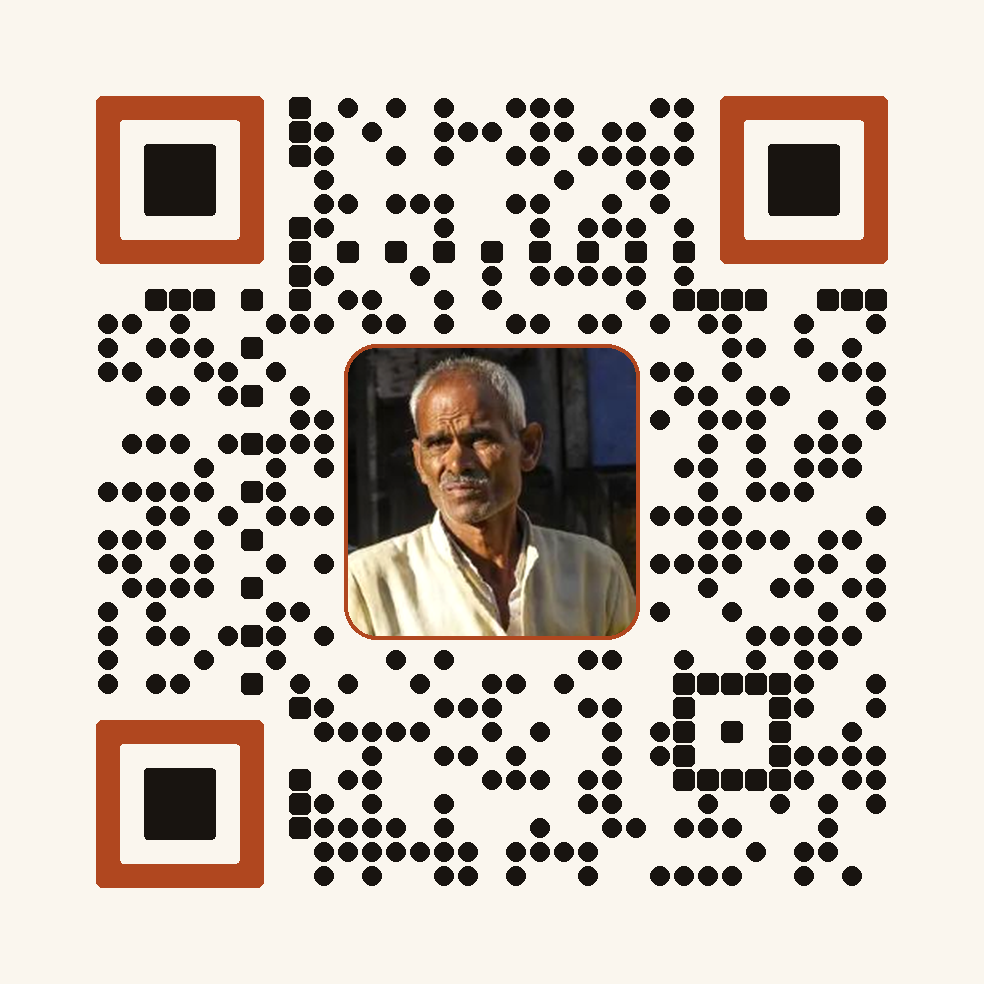
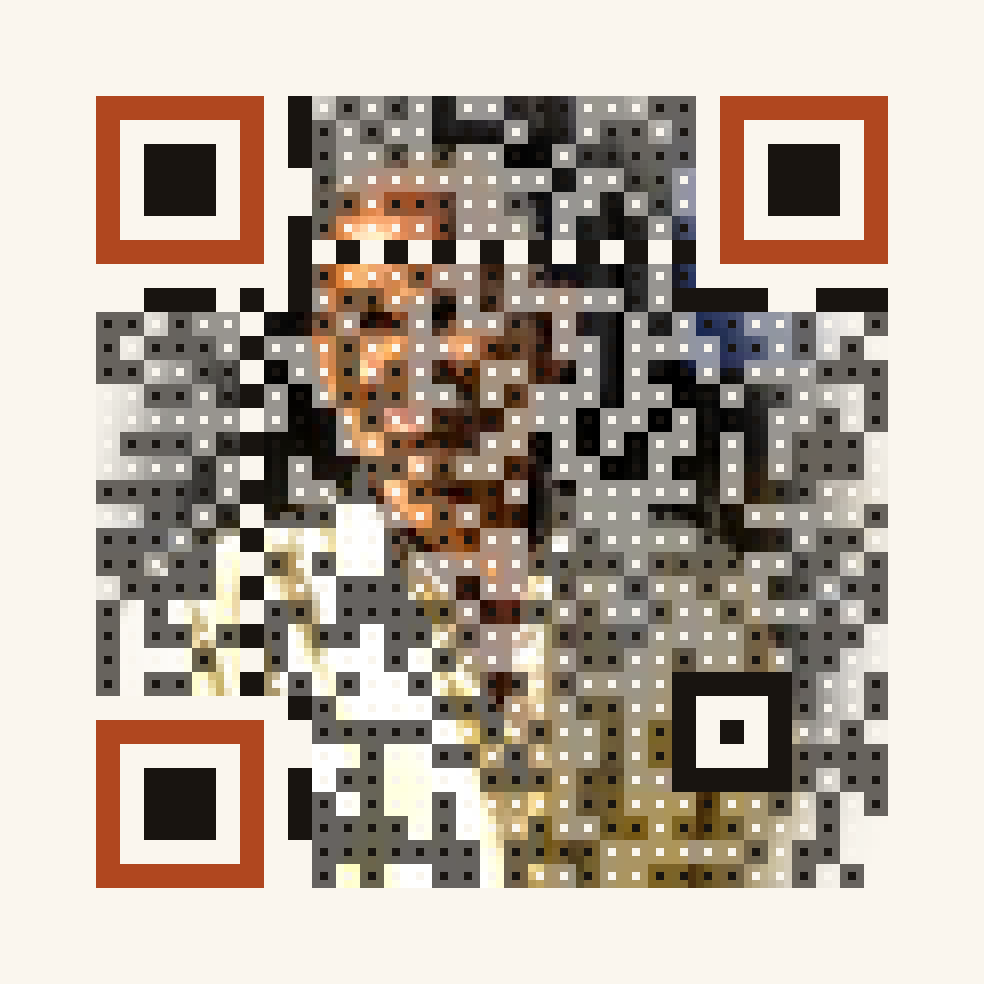
web: QR remade as a halftone picture (the code forms the vendor's face), read by ZXing and OpenCV (D57)

diff --git a/scripts/make_qr.py b/scripts/make_qr.py
@@ -1,17 +1,17 @@
 """Make the picture QR for the website and the printed card (D57).
 
-Two styles. "portrait" (default, used on the site): a clean QR of round dots with the photo as a
-clear portrait in the centre; error correction H lets up to 30% of the code be covered, the
-13x13 portrait covers 16%. "halftone" (tried first, too busy to see the face): the photo fills the code at full detail. Each QR module keeps a solid centre dot
-that carries the data (dark or light). Around the dot the photo is left alone wherever it already
-agrees with the module; only pixels on the wrong side are pushed just past a threshold
-(--dark-max / --light-min), so the picture survives and phone scanners still read it. The finder squares, timing
-lines, alignment square and format/version bits are drawn solid, because scanners rely on them.
+A halftone QR (the method of "Halftone QR codes", Chu et al., SIGGRAPH Asia 2013): the code itself
+draws the picture. Every QR module is split into 3x3 small cells. Only the centre cell carries the
+data (forced dark or light); the 8 cells around it show the photo, and are only nudged when they
+strongly disagree with their module (--dark-max / --light-min). Scanners sample module centres, so
+they read the data; the eye sees the photo. Finder squares, timing, alignment and format bits stay
+solid. Before that, the photo is cropped to head and shoulders and everything outside a soft oval
+is faded to cream: a plain light background is what makes the face readable.
 
-Dev tool only, not part of the API. Needs: pip install segno pillow numpy  (optional check: opencv-python-headless)
+Dev tool only, not part of the API. Needs: pip install segno pillow numpy
+Optional check (reads the result back like a phone): pip install zxing-cpp opencv-python-headless
 
-  python scripts/make_qr.py --image photo.jpg --crop 55,15,235,195 --out web/public/qr-app.png
-  python scripts/make_qr.py ... --check      # read the result back with OpenCV and print the link
+  python scripts/make_qr.py --image photo.png --out web/public/qr-app.png --check
 
 The source photo is a licensed stock image: keep it out of git (docs/assets/*_source.* is ignored).
 """
@@ -19,151 +19,94 @@ import argparse
 
 import numpy as np
 import segno
-from PIL import Image, ImageDraw, ImageEnhance
+from PIL import Image, ImageDraw, ImageEnhance, ImageFilter
 
 URL = "https://karzsamjho.vercel.app/app"
 INK = (24, 20, 16)          # near-black, the site's foreground
 PAPER = (250, 246, 238)     # cream, the site's background
 ACCENT = (176, 71, 31)      # burnt orange, the site's primary
 QUIET = 4                   # quiet zone in modules (the QR standard asks for 4)
+LUMA = np.array([0.299, 0.587, 0.114], np.float32)
 
 
-def make(image_path, crop, out, url=URL, module=30, dark_max=90, light_min=170, contrast=1.2, dot=0.45):
+def prepare(path, crop, oval=(0.08, -0.02, 0.92, 1.2), contrast=1.35, bright=1.05):
+    """Crop, boost, and fade everything outside a soft oval (head and shoulders) to cream."""
+    im = Image.open(path).convert("RGB")
+    if crop:
+        im = im.crop(crop)
+    im = ImageEnhance.Brightness(ImageEnhance.Contrast(im).enhance(contrast)).enhance(bright)
+    w, h = im.size
+    mask = Image.new("L", (w, h), 0)
+    ImageDraw.Draw(mask).ellipse([oval[0] * w, oval[1] * h, oval[2] * w, oval[3] * h], fill=255)
+    mask = mask.filter(ImageFilter.GaussianBlur(w * 0.05))
+    return Image.composite(im, Image.new("RGB", (w, h), PAPER), mask)
+
+
+def make(photo, out, url=URL, cell=8, dark_max=100, light_min=150):
+    """photo: a prepared PIL image. cell: pixels per small cell (a module is 3 cells)."""
     qr = segno.make(url, error="h", boost_error=False)
     n = qr.symbol_size(scale=1, border=0)[0]
-    side = n * module
-    size = (n + 2 * QUIET) * module
-
-    photo = Image.open(image_path).convert("RGB")
-    if crop:
-        photo = photo.crop(crop)
-    photo = ImageEnhance.Contrast(photo).enhance(contrast).resize((side, side), Image.LANCZOS)
-
+    dark = np.array([[bool(v) for v in row] for row in qr.matrix_iter(scale=1, border=0)])
+    kinds = [list(row) for row in qr.matrix_iter(scale=1, border=0, verbose=True)]
     k = segno.consts
     fixed = {k.TYPE_FINDER_PATTERN_DARK, k.TYPE_FINDER_PATTERN_LIGHT, k.TYPE_SEPARATOR,
              k.TYPE_TIMING_DARK, k.TYPE_TIMING_LIGHT, k.TYPE_ALIGNMENT_PATTERN_DARK,
              k.TYPE_ALIGNMENT_PATTERN_LIGHT, k.TYPE_FORMAT_DARK, k.TYPE_FORMAT_LIGHT,
              k.TYPE_VERSION_DARK, k.TYPE_VERSION_LIGHT, k.TYPE_DARKMODULE}
-    values = [[bool(v) for v in row] for row in qr.matrix_iter(scale=1, border=0)]
-    kinds = [list(row) for row in qr.matrix_iter(scale=1, border=0, verbose=True)]
-
-    # 1. Only fix pixels that disagree with their module: in a dark module, photo pixels lighter
-    #    than dark_max are darkened just down to it; in a light module, pixels darker than light_min
-    #    are lightened just up to it. Pixels already on the right side are left as the photo.
-    a = np.asarray(photo, dtype=np.float32)
-    lum = a @ np.array([0.299, 0.587, 0.114], dtype=np.float32)
-    dark_mask = np.kron(np.array(values, dtype=bool), np.ones((module, module), dtype=bool))
     ink, paper = np.array(INK, np.float32), np.array(PAPER, np.float32)
-    ink_l, paper_l = float(ink @ [0.299, 0.587, 0.114]), float(paper @ [0.299, 0.587, 0.114])
-    to_ink = dark_mask & (lum > dark_max)
-    to_paper = ~dark_mask & (lum < light_min)
-    t = np.zeros_like(lum)
-    t[to_ink] = (lum[to_ink] - dark_max) / (lum[to_ink] - ink_l)
-    t[to_paper] = (light_min - lum[to_paper]) / (paper_l - lum[to_paper])
-    target = np.where(dark_mask[..., None], ink, paper)
-    a = a * (1 - t[..., None]) + target * t[..., None]
-    body = Image.fromarray(a.clip(0, 255).astype(np.uint8))
-    draw = ImageDraw.Draw(body)
+    ink_l, paper_l = float(ink @ LUMA), float(paper @ LUMA)
 
-    # 2. Data modules: a solid centre dot carries the bit.
-    pad = round(module * (1 - dot) / 2)
+    cells = np.asarray(photo.resize((3 * n, 3 * n), Image.LANCZOS), dtype=np.float32).copy()
     for r in range(n):
         for c in range(n):
-            x0, y0 = c * module, r * module
-            colour = INK if values[r][c] else PAPER
+            target = ink if dark[r, c] else paper
+            block = cells[3 * r:3 * r + 3, 3 * c:3 * c + 3]
             if kinds[r][c] in fixed:
-                # 3. Format, version, timing, alignment: solid, scanners rely on them.
-                draw.rectangle([x0, y0, x0 + module - 1, y0 + module - 1], fill=colour)
-            else:
-                draw.rounded_rectangle([x0 + pad, y0 + pad, x0 + module - 1 - pad, y0 + module - 1 - pad],
-                                       radius=module * dot / 4, fill=colour)
-
-    # 4. Finder squares: cream separator, orange ring, ink centre. Nearly square: rounded finders fail to scan.
-    for fr, fc in ((0, 0), (0, n - 7), (n - 7, 0)):
-        x0, y0 = fc * module, fr * module
-        draw.rectangle([max(x0 - module, 0), max(y0 - module, 0),
-                        min(x0 + 8 * module, side) - 1, min(y0 + 8 * module, side) - 1], fill=PAPER)
-        draw.rounded_rectangle([x0, y0, x0 + 7 * module - 1, y0 + 7 * module - 1], radius=module * 0.25, fill=ACCENT)
-        draw.rounded_rectangle([x0 + module, y0 + module, x0 + 6 * module - 1, y0 + 6 * module - 1],
-                               radius=module * 0.15, fill=PAPER)
-        draw.rounded_rectangle([x0 + 2 * module, y0 + 2 * module, x0 + 5 * module - 1, y0 + 5 * module - 1],
-                               radius=module * 0.15, fill=INK)
-
-    img = Image.new("RGB", (size, size), PAPER)
-    img.paste(body, (QUIET * module, QUIET * module))
-    img.save(out, optimize=True)
-    return img
-
-
-def make_portrait(image_path, crop, out, url=URL, module=24, hole=13, dot=0.78):
-    """Clean QR (round ink dots, orange finders) with the photo as a clear portrait in the centre.
-    hole = side of the centre square in modules. Error correction H recovers up to 30% of the
-    code; a 13x13 hole on the 33x33 code covers 16%, so it scans and the face stays fully visible."""
-    qr = segno.make(url, error="h", boost_error=False)
-    n = qr.symbol_size(scale=1, border=0)[0]
-    size = (n + 2 * QUIET) * module
-    values = [[bool(v) for v in row] for row in qr.matrix_iter(scale=1, border=0)]
-    k = segno.consts
-    kinds = [list(row) for row in qr.matrix_iter(scale=1, border=0, verbose=True)]
-    solid = {k.TYPE_TIMING_DARK, k.TYPE_ALIGNMENT_PATTERN_DARK, k.TYPE_FORMAT_DARK, k.TYPE_VERSION_DARK,
-             k.TYPE_DARKMODULE}
-    finder = {k.TYPE_FINDER_PATTERN_DARK, k.TYPE_FINDER_PATTERN_LIGHT, k.TYPE_SEPARATOR}
-    lo = (n - hole) // 2
-    hi = lo + hole
-
-    img = Image.new("RGB", (size, size), PAPER)
-    draw = ImageDraw.Draw(img)
-    pad = module * (1 - dot) / 2
-    for r in range(n):
-        for c in range(n):
-            if not values[r][c] or kinds[r][c] in finder or (lo <= r < hi and lo <= c < hi):
+                block[:] = target
                 continue
-            x0, y0 = (c + QUIET) * module, (r + QUIET) * module
-            if kinds[r][c] in solid:
-                draw.rounded_rectangle([x0 + 1, y0 + 1, x0 + module - 2, y0 + module - 2], radius=module * 0.2, fill=INK)
-            else:
-                draw.ellipse([x0 + pad, y0 + pad, x0 + module - pad, y0 + module - pad], fill=INK)
+            for i in range(3):
+                for j in range(3):
+                    if i == 1 and j == 1:
+                        block[i, j] = target          # the data cell
+                        continue
+                    p = block[i, j]
+                    lum = float(p @ LUMA)
+                    if dark[r, c] and lum > dark_max:
+                        t = (lum - dark_max) / (lum - ink_l)
+                        block[i, j] = p * (1 - t) + ink * t
+                    elif not dark[r, c] and lum < light_min:
+                        t = (light_min - lum) / (paper_l - lum)
+                        block[i, j] = p * (1 - t) + paper * t
 
+    body = Image.fromarray(cells.clip(0, 255).astype(np.uint8)).resize((3 * n * cell,) * 2, Image.NEAREST)
+    module = 3 * cell
+    img = Image.new("RGB", ((n + 2 * QUIET) * module,) * 2, PAPER)
+    img.paste(body, (QUIET * module, QUIET * module))
+    draw = ImageDraw.Draw(img)
+    # Finder squares: orange ring, ink centre. Square corners: rounded finders failed the scan test.
     for fr, fc in ((0, 0), (0, n - 7), (n - 7, 0)):
         x0, y0 = (fc + QUIET) * module, (fr + QUIET) * module
-        draw.rounded_rectangle([x0, y0, x0 + 7 * module - 1, y0 + 7 * module - 1], radius=module * 0.25, fill=ACCENT)
-        draw.rounded_rectangle([x0 + module, y0 + module, x0 + 6 * module - 1, y0 + 6 * module - 1],
-                               radius=module * 0.15, fill=PAPER)
-        draw.rounded_rectangle([x0 + 2 * module, y0 + 2 * module, x0 + 5 * module - 1, y0 + 5 * module - 1],
-                               radius=module * 0.15, fill=INK)
-
-    # The portrait: a rounded square with a cream margin of half a module and a thin orange frame.
-    photo = Image.open(image_path).convert("RGB")
-    if crop:
-        photo = photo.crop(crop)
-    side = hole * module - module
-    photo = ImageEnhance.Contrast(photo).enhance(1.1).resize((side, side), Image.LANCZOS)
-    mask = Image.new("L", (side, side), 0)
-    ImageDraw.Draw(mask).rounded_rectangle([0, 0, side - 1, side - 1], radius=module * 1.2, fill=255)
-    px = (lo + QUIET) * module + module // 2
-    draw.rounded_rectangle([px - 4, px - 4, px + side + 3, px + side + 3], radius=module * 1.2 + 4, fill=ACCENT)
-    img.paste(photo, (px, px), mask)
-
+        draw.rectangle([x0, y0, x0 + 7 * module - 1, y0 + 7 * module - 1], fill=ACCENT)
+        draw.rectangle([x0 + module, y0 + module, x0 + 6 * module - 1, y0 + 6 * module - 1], fill=PAPER)
+        draw.rectangle([x0 + 2 * module, y0 + 2 * module, x0 + 5 * module - 1, y0 + 5 * module - 1], fill=INK)
     img.save(out, optimize=True)
     return img
 
 
-def check(path):
-    """Read the QR back like a phone would: full size, small, and slightly blurred."""
+def check(path, url=URL):
+    """Read the QR back at several sizes with ZXing (the engine in many phone scanner apps) and
+    OpenCV (stricter). Returns {size: (zxing_ok, opencv_ok)}."""
     import cv2
+    import zxingcpp
 
-    img = cv2.imread(path)
-    det = cv2.QRCodeDetector()
-    aruco = cv2.QRCodeDetectorAruco()
+    img = Image.open(path).convert("RGB")
     results = {}
-    for name, test in (
-        ("full", img),
-        ("small 300px", cv2.resize(img, (300, 300), interpolation=cv2.INTER_AREA)),
-        ("small 200px", cv2.resize(img, (200, 200), interpolation=cv2.INTER_AREA)),
-        ("blurred", cv2.GaussianBlur(cv2.resize(img, (400, 400), interpolation=cv2.INTER_AREA), (3, 3), 0)),
-    ):
-        text = det.detectAndDecode(test)[0] or aruco.detectAndDecode(test)[0]
-        results[name] = text or None
+    for size in (None, 500, 350, 250):
+        test = img if size is None else img.resize((size, size), Image.LANCZOS)
+        z = url in [b.text for b in zxingcpp.read_barcodes(test)]
+        bgr = np.array(test)[:, :, ::-1].copy()
+        o = (cv2.QRCodeDetector().detectAndDecode(bgr)[0] or cv2.QRCodeDetectorAruco().detectAndDecode(bgr)[0]) == url
+        results["full" if size is None else f"{size}px"] = (z, o)
     return results
 
 
@@ -171,27 +114,18 @@ def main():
     ap = argparse.ArgumentParser(description=__doc__.splitlines()[0])
     ap.add_argument("--image", required=True)
     ap.add_argument("--out", required=True)
-    ap.add_argument("--crop", help="left,top,right,bottom in photo pixels")
+    ap.add_argument("--crop", default="30,5,270,245", help="left,top,right,bottom in photo pixels")
     ap.add_argument("--url", default=URL)
-    ap.add_argument("--module", type=int, default=30, help="pixels per QR module")
-    ap.add_argument("--dot", type=float, default=0.4, help="data dot size as a share of the module")
-    ap.add_argument("--dark-max", type=int, default=90, help="brightest a pixel in a dark module may be (0-255)")
-    ap.add_argument("--light-min", type=int, default=170, help="darkest a pixel in a light module may be (0-255)")
-    ap.add_argument("--contrast", type=float, default=1.2)
-    ap.add_argument("--style", choices=["portrait", "halftone"], default="portrait",
-                    help="portrait: clean QR, photo in the centre (used on the site); halftone: photo behind the dots")
-    ap.add_argument("--hole", type=int, default=13, help="portrait: side of the centre photo in modules (15 fails)")
-    ap.add_argument("--check", action="store_true", help="read it back with OpenCV")
+    ap.add_argument("--dark-max", type=int, default=100, help="brightest a photo cell in a dark module may be (0-255)")
+    ap.add_argument("--light-min", type=int, default=150, help="darkest a photo cell in a light module may be (0-255)")
+    ap.add_argument("--check", action="store_true", help="read it back with ZXing and OpenCV")
     a = ap.parse_args()
     crop = tuple(int(v) for v in a.crop.split(",")) if a.crop else None
-    if a.style == "portrait":
-        make_portrait(a.image, crop, a.out, a.url, a.module if a.module != 30 else 24, a.hole)
-    else:
-        make(a.image, crop, a.out, a.url, a.module, a.dark_max, a.light_min, a.contrast, a.dot)
+    make(prepare(a.image, crop), a.out, a.url, dark_max=a.dark_max, light_min=a.light_min)
     print("wrote", a.out)
     if a.check:
-        for name, text in check(a.out).items():
-            print(f"  {name:12} {'OK  ' if text == a.url else 'FAIL'} {text}")
+        for size, (z, o) in check(a.out, a.url).items():
+            print(f"  {size:5}  ZXing {'OK  ' if z else 'FAIL'}  OpenCV {'OK' if o else 'FAIL'}")
 
 
 if __name__ == "__main__":

diff --git a/docs/DECISIONS.md b/docs/DECISIONS.md
@@ -60,4 +60,4 @@ Add new decisions at the bottom with the time. If a decision is reversed, add a 
 | D54 | 14 Nov 7:00 AM | Exception to the 5:00 AM freeze (D46): an "Install KarzSamjho on this phone" button at the top of /check. Android / Chrome / Edge: one tap opens the phone's own install window (beforeinstallprompt); iPhone: a one-line hint "tap Share, then Add to Home Screen" (Apple has no install API); hidden when already installed. Nothing else changes | Lead's call: no phone lets a website install itself; one tap after scanning the QR is the closest to automatic, and the demo hands the QR to helpers |
 | D55 | 14 Nov 7:15 AM | Sanity rule in the cross-check (bug fix after the freeze): an amount to repay (written, or EMI x count) of more than 10 times the loan or the in-hand amount is treated as a misread; both sides become "couldn't verify" (a photo gets the second reading first). Threshold in config (implausible_repay_ratio). Stage claim changes from "30 offers" to the measured 15-offer demo pack | Final review found K = 2: the backup model read "₹50 हज़ार" as 50 and the card showed it as verified. No real loan repays 10 times its amount; an honest "couldn't verify" beats a wrong verified number |
 | D56 | 14 Nov 7:50 AM | Exception to the freeze (lead's call): the helper app can open a harassment case. "New case" on /cases (borrower + lender), and "Being threatened? Start a case" on a /check result (lender pre-filled, case linked to that check so the complaint route uses its RBI result, as the bot does). Both go to the case page. Telegram still opens cases too; both share one API | Until now only the bot could open a case, so a helper sitting with Raju could follow cases up but not start one. The API already supported it |
-| D57 | 16 Nov 9:05 PM | After the hackathon (CHANGELOG [Unreleased]). The website never opens the helper app on a laptop: every "Check an offer" / "Open the app" / "Try the helper view" button is replaced by a "Get the app" button that opens a window with a QR to scan with the phone (nav, Home hero, end of Home, /how, /partners; no QR printed inline on the page). On a phone or tablet (coarse pointer) there is no QR, only one "Open the app" button. The QR is a fixed picture (a clean QR with one vegetable vendor's portrait in the centre, scripts/make_qr.py) that always opens https://karzsamjho.vercel.app/app. The helper app gets a short Home at /app (what it does, Check / Cases / Telegram bot, how a check works, the install button, which leaves /check); the installed app starts there (start_url /app). The vendor photo is a licensed stock image (lead's call, an exception to "synthetic only" for this one picture); the source photo stays out of git, only the QR made from it is committed. /join's always-dark opening now follows the page theme like every other page. | Gurpreet wanted a clean split: the website attracts and explains, the app lives on the phone. A new helper who opens the app directly needs a one-screen idea of it. A photo spread behind the dots (halftone) hid the face and looked like an error, so the portrait sits in the centre instead (13x13 of 33x33 modules passes, 15x15 fails). Rounded or light-on-dark QR corners failed the scan test, so the corners stay square and the QR stays cream in dark mode. An always-dark block next to light pages also read as a bug. |
+| D57 | 16 Nov 9:05 PM | After the hackathon (CHANGELOG [Unreleased]). The website never opens the helper app on a laptop: every "Check an offer" / "Open the app" / "Try the helper view" button is replaced by a "Get the app" button that opens a window with a QR to scan with the phone (nav, Home hero, end of Home, /how, /partners; no QR printed inline on the page). On a phone or tablet (coarse pointer) there is no QR, only one "Open the app" button. The QR is a fixed halftone picture QR (the code itself draws one vegetable vendor, method of Chu et al. 2013; scripts/make_qr.py) that always opens https://karzsamjho.vercel.app/app. The helper app gets a short Home at /app (what it does, Check / Cases / Telegram bot, how a check works, the install button, which leaves /check); the installed app starts there (start_url /app). The vendor photo is a licensed stock image (lead's call, an exception to "synthetic only" for this one picture); the source photo stays out of git, only the QR made from it is committed. /join's always-dark opening now follows the page theme like every other page. | Gurpreet wanted a clean split: the website attracts and explains, the app lives on the phone. A new helper who opens the app directly needs a one-screen idea of it. A photo pasted in the centre was rejected (the lead wants the code to form the face). The halftone works when only each module's centre cell is forced and the photo's background is faded to cream; it is read back by ZXing (phone scanner engine) and OpenCV at 250 px to full size. Rounded or light-on-dark QR corners failed the scan test, so the corners stay square and the QR stays cream in dark mode. An always-dark block next to light pages also read as a bug. |

diff --git a/docs/progress/2026-11-16_2105_site-qr-app-home_gurpreet.md b/docs/progress/2026-11-16_2105_site-qr-app-home_gurpreet.md
@@ -1,8 +1,8 @@
 # Polish (D57) · Website QR, app Home, theme sync
 - When: 16 Nov 2026, 9:05 PM IST (after the hackathon) · Who: agent for Gurpreet
-- Did: the website no longer opens the helper app on a laptop: "Get the app" buttons open a QR window (clean QR, vendor's portrait in the centre) that opens https://karzsamjho.vercel.app/app on the phone; phones see one "Open the app" button and no QR. New app Home at /app (Check, Cases, Telegram bot, how a check works, install button moved off /check); installed app starts on /app. Theme applied before first paint; status-bar colour follows the theme. /how no longer scrolls sideways on phones; the stale "Hindi only" limit is removed. Review round: inline QR cards replaced by the dialog button, halftone QR replaced by the portrait QR (face was not visible), /join opening follows the theme.
+- Did: the website no longer opens the helper app on a laptop: "Get the app" buttons open a QR window (halftone QR: the code itself forms the vendor's face) that opens https://karzsamjho.vercel.app/app on the phone; phones see one "Open the app" button and no QR. New app Home at /app (Check, Cases, Telegram bot, how a check works, install button moved off /check); installed app starts on /app. Theme applied before first paint; status-bar colour follows the theme. /how no longer scrolls sideways on phones; the stale "Hindi only" limit is removed. Review round: inline QR cards replaced by the dialog button, QR remade the halftone way (centre cell carries the data, photo background faded to cream) so the face shows, /join opening follows the theme.
 - Files: scripts/make_qr.py, web/public/qr-app.png, web/src/site/AppQr.tsx, web/src/pages/AppHome.tsx, web/src/App.tsx, web/src/components/TopBar.tsx, web/src/pages/{Check,How,Landing,NotFound,Partners}.tsx, web/src/site/{Sections,SiteLayout,fx,shell}.tsx, web/src/pages/Join.tsx, web/index.html, web/public/manifest.json, web/src/lib/theme.tsx, web/package.json (qrcode.react removed), .gitignore, docs.
-- Proof: npm run build + lint clean (only the 6 old fast-refresh warnings). make_qr.py --check reads the QR back with OpenCV at full size, 300 px, 200 px and blurred: 4 of 4 return the exact link. Playwright on Chrome: laptop shows QR and no app link; touch phone shows "Open the app" and no QR; every site and app page fits at 360 and 390 px; theme-color and dark class correct on load in both themes.
+- Proof: npm run build + lint clean (only the 6 old fast-refresh warnings). make_qr.py --check reads the QR back with ZXing (phone scanner engine) and OpenCV at full size, 500, 350 and 250 px: 8 of 8 return the exact link. Playwright on Chrome: laptop shows QR and no app link; touch phone shows "Open the app" and no QR; every site and app page fits at 360 and 390 px; theme-color and dark class correct on load in both themes.
 - Status in docs/TASKS.md: no task row (post-hackathon polish; CHANGELOG [Unreleased]).
-- Next: scan the QR on real phones (camera, Google Lens, PhonePe / GPay scanner); if any fails, raise --dark-max / --light-min contrast and regenerate.
+- Next: scan the QR on real phones (camera, Google Lens, PhonePe / GPay scanner); if any fails, lower --dark-max / raise --light-min and regenerate.
 - Broken / risks: phones that installed the app before this keep their old start page (/check) until reinstalled; the Home tab is there. The source photo is licensed stock and not in git; regenerating the QR needs it locally.

diff --git a/CHANGELOG.md b/CHANGELOG.md
@@ -5,7 +5,7 @@ Work after the hackathon goes under [Unreleased]. The hackathon build is the tag
 ## [Unreleased]
 
 ### Changed
-- Website: no button opens the helper app on a laptop any more; "Get the app" buttons open a QR (a vegetable vendor's portrait in the centre) to scan with the phone. Phones get one "Open the app" button instead of the QR (D57).
+- Website: no button opens the helper app on a laptop any more; "Get the app" buttons open a picture QR (the code itself forms a vegetable vendor's face) to scan with the phone. Phones get one "Open the app" button instead of the QR (D57).
 - `/join` follows the light/dark theme like the other pages (its opening was always black).
 - Helper app: new Home at `/app` (what it does, Check, Cases, the Telegram bot, how a check works); the install button moved there from `/check`; the installed app starts on Home.
 - Light and dark: the saved theme is applied before the first paint (no light flash), and the phone status bar follows the theme.
